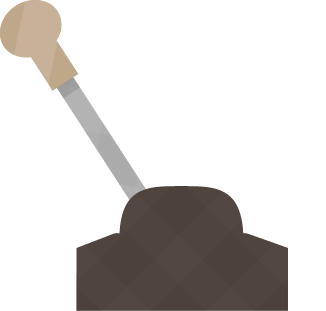
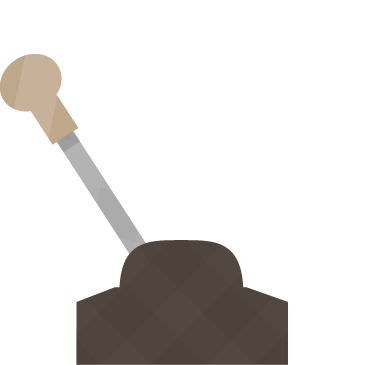
Major Update - Fixed lever click

Changed region(s): [[0.0, 0.0, 0.8896, 1.0]]

diff --git a/dpt/ressources/dpt/entities/Lever.entity.py b/dpt/ressources/dpt/entities/Lever.entity.py
@@ -29,7 +29,8 @@ class Lever(pygame.sprite.Sprite):
         mousePos = pygame.mouse.get_pos()
         if mouseButtons[0] == 1 and not self.clicked:
             self.clicked = True
-            if mousePos[0] >= self.x and mousePos[0] <= self.x + self.width and mousePos[1] >= self.y and mousePos[1] <= self.y + self.height:
+            from dpt.engine.tileManager import TileManager
+            if mousePos[0] >= self.x + TileManager.camera.last_x and mousePos[0] <= self.x + self.width and mousePos[1] >= self.y and mousePos[1] <= self.y + self.height:
                 from dpt.engine.gui.editor.tileEditor import TileEditor
                 if not TileEditor.in_editor:
                     if self.left:
@@ -39,7 +40,7 @@ class Lever(pygame.sprite.Sprite):
                         self.image = RessourceLoader.get(texture)
                         self.image = pygame.transform.scale(self.image, (self.width, self.height))
                         self.rect = self.image.get_rect()
-                        self.rect.x = self.x + self.offset_x + 11
+                        self.rect.x = self.x + self.offset_x
                         self.rect.y = self.y + self.offset_y
                     elif self.right:
                         self.right = False

diff --git a/dpt/engine/tileManager.py b/dpt/engine/tileManager.py
@@ -306,6 +306,10 @@ class TileManager:
             if sprite.rect.colliderect(rect):
                 sprite.update()
                 Game.surface.blit(sprite.image, self.apply(sprite))
+        for sprite in TileManager.interactible_blocks:
+            if sprite.rect.colliderect(rect):
+                sprite.update()
+                Game.surface.blit(sprite.image, self.apply(sprite))
 
 
 class Camera:

diff --git a/dpt/engine/mainLoop.py b/dpt/engine/mainLoop.py
@@ -61,7 +61,6 @@ def level_loop():
     do_synch_anims()
     TileManager.out_of_window()
     TileManager.interactible_blocks.update()
-    TileManager.interactible_blocks.draw(Game.surface)
     TileManager.camera.update(Game.player_sprite)
     TileEditor.update()
 
